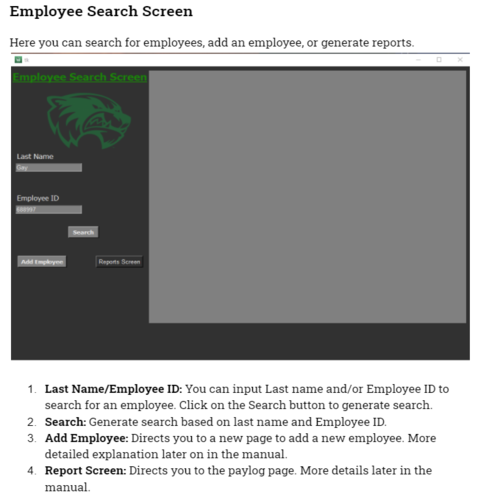
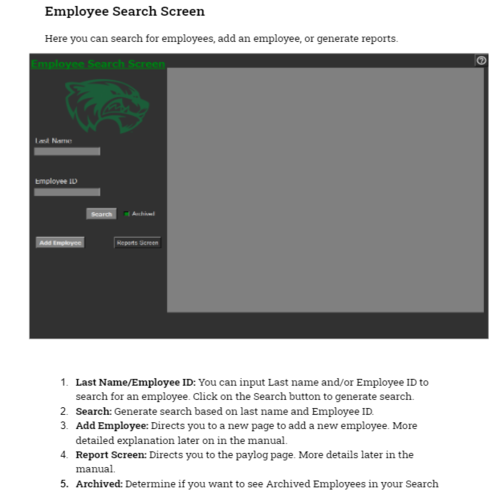
Updated the payroll to also generate a CSV report and the button to state "Issue Payroll"

Changed region(s): [[0.0, 0.0, 0.99, 0.72], [0.06, 0.75, 0.9, 0.99]]

diff --git a/EMS_1.0/Emp_Mgmt_System.py b/EMS_1.0/Emp_Mgmt_System.py
@@ -542,7 +542,7 @@ class Reports_Screen(Frame):
         self.report_screen.place(x=300, y=35)
 
         # Save DataBase Button
-        self.save_button = Button(self, text="Save Paylog Report", command=lambda: save_txt())
+        self.save_button = Button(self, text="Issue Payroll", command=lambda: save_txt())
         self.save_button.place(x=160, y=400)
 
         # Save Pay log Button
@@ -578,10 +578,9 @@ class Reports_Screen(Frame):
             shutil.copyfile(original, target)
 
         def save_txt():
-            data = [('Text File', '*.txt')]
-            file = asksaveasfile(filetypes=data, defaultextension='.txt')
-
-            original = r'HoursReports/paylog.txt'
+            data = [('CSV File', '*.csv')]
+            file = asksaveasfile(filetypes=data, defaultextension='.csv')
+            original = r'HoursReports/paylogchart.csv'
             target = file.name
             shutil.copyfile(original, target)
 
@@ -1001,7 +1000,7 @@ class Search_Screen(Frame):
         # Last Name Search Widget and Label
         self.last_name = StringVar()
         self.last_name_label = Label(self, text="Last Name", font=("Tahoma", 13))
-        self.last_name_entry =  Entry(self, bd=1, textvariable=self.last_name, font=("Tahoma", 13))
+        self.last_name_entry = Entry(self, bd=1, textvariable=self.last_name, font=("Tahoma", 13))
         self.last_name_label.place(x=10, y=200)
         self.last_name_entry.place(x=10, y=230)
 
@@ -1016,6 +1015,7 @@ class Search_Screen(Frame):
         self.results_screen = Frame(self, height=600, width=690, bg="gray")
         self.results_screen.place(x=300, y=35)
         self.retrieved_employees = []
+
 
         # Search Button
         self.search_button = Button(self, text="Search", width=7, bg="grey", font=("Tahoma", 10, "bold"),
@@ -1034,7 +1034,7 @@ class Search_Screen(Frame):
         self.report_button = Button(self, text="Reports Screen",
                                     command=lambda: controller.show_frame(Reports_Screen))
         # Runs an Admin Check
-    
+
     def initiate(self, controller, flag):
         if controller.admin.get() == True:
             self.new_employee_button.place(x=15, y=450)
@@ -1044,6 +1044,7 @@ class Search_Screen(Frame):
     # Called upon Searching to populate fields
     def display_results(self, results_screen, controller, archived):
         self.clear_widgets(results_screen)
+
         # Gets the entered Search values
         id_entered = False
         get_ID = self.emp_ID.get()

diff --git a/EMS_1.0/system/Database_Manager.py b/EMS_1.0/system/Database_Manager.py
@@ -155,6 +155,7 @@ class Employee:
         '''This method writes to the file of how much each employee will be paid. Goes through
         all employees and only writes to the file the employees that will be making money. This function
         takes the amount returned from the emp.classification.issue_payment() method.'''
+        paylogchart_file = Path(__file__).resolve().parent.parent / 'HoursReports' / 'paylogchart.csv'
         if float(payroll) == 0:  # if the employee did not make anything, no payment is written to file
             pass
         else:
@@ -166,6 +167,14 @@ class Employee:
                 else:
                     f.write(f"Wiring {payroll} to {self.first_name} {self.last_name}" \
                             f" to a bank account routing: {self.route} accounting: {self.accounting}\n")
+
+            with open(paylogchart_file, 'a+') as f:  # a+ appends to the file
+                if self.payment_method == str(1):
+                    f.write(f"Mail,{payroll},{self.first_name}, {self.last_name}" \
+                            f",{self.address} {self.city} {self.state} {self.zipcode}\n")
+                else:
+                    f.write(f"Wire, {payroll}, {self.first_name},{self.last_name}" \
+                            f",Routing: {self.route} Accounting: {self.accounting}\n")
 
 
 class Salaried(Classification):
@@ -401,6 +410,10 @@ def find_employee_by_last_name_total(last_name_entered, archive_check):
 
 
 def run_payroll():
+    paylogchart_file = Path(__file__).resolve().parent.parent / 'HoursReports' / 'paylogchart.csv'
+    r = open(paylogchart_file, "a")
+    r.write("Delivery Method, Amount, First Name, Last Name, Location\n")
+    r.close()
     if Path(__file__).resolve().parent.parent / 'HoursReports' / PAY_LOGFILE:  # pay_log_file is a global variable holding ‘payroll.txt’
         Path(__file__).resolve().parent.parent.joinpath('HoursReports', PAY_LOGFILE).unlink()
     for emp in total_employees:  # employees is the global list of Employee objects
